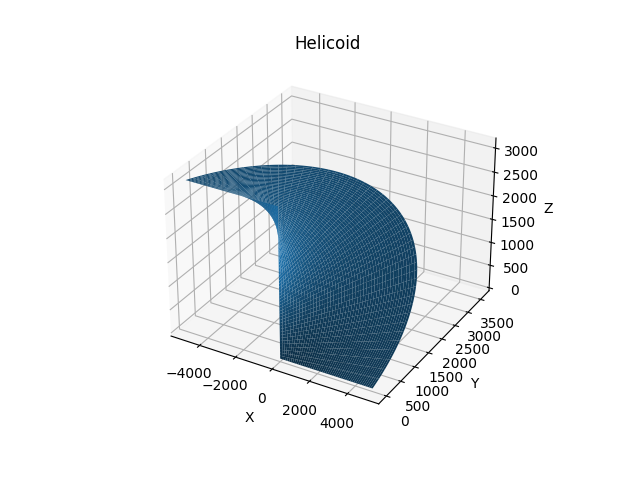
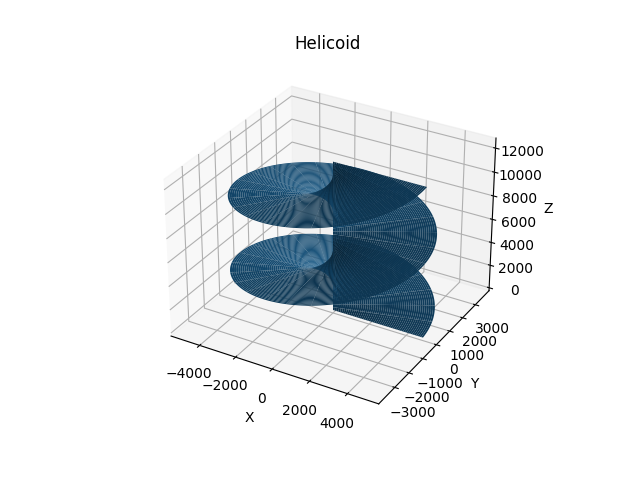
lab 15

diff --git a/lab_15_osn_task_1a.py b/lab_15_osn_task_1a.py
@@ -3,8 +3,8 @@ import numpy as np
 
 fig, ax = plt.subplots(subplot_kw={'projection': '3d'})
 
-phi = np.linspace(0, 2*np.pi, 10000)
-theta = np.linspace(0, np.pi, 10000)
+phi = np.linspace(-2*np.pi, 2*np.pi, 10000)
+theta = np.linspace(-2*np.pi, 2*np.pi, 10000)
 
 x = np.outer(phi, np.cos(theta))
 y = np.outer(phi, np.sin(theta))

diff --git a/lab_15_osn_task_1c.py b/lab_15_osn_task_1c.py
@@ -4,7 +4,7 @@ import numpy as np
 fig, ax = plt.subplots(subplot_kw={'projection': '3d'})
 
 phi = np.linspace(0, 2*np.pi, 1000)
-theta = np.linspace(0, np.pi, 1000)
+theta = np.linspace(0, 4*np.pi, 1000)
 
 a = 780
 b = 570
